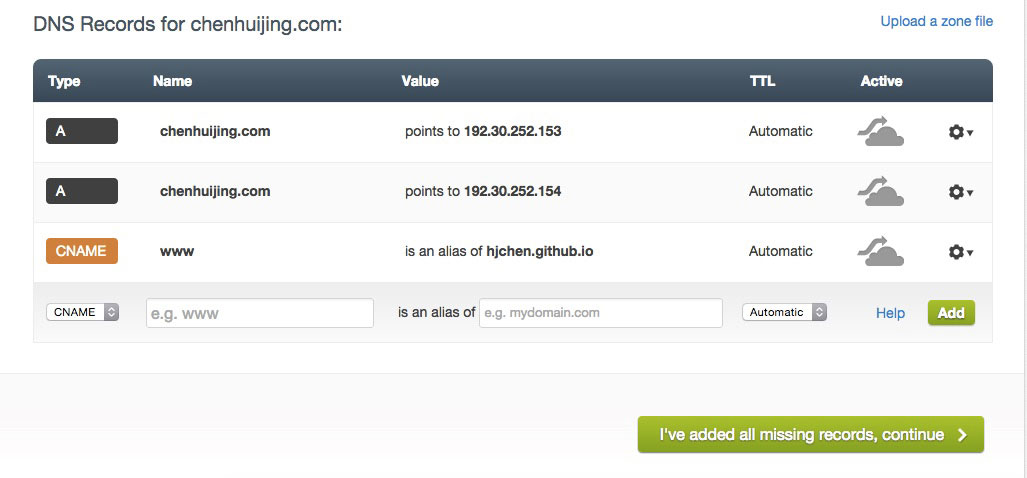
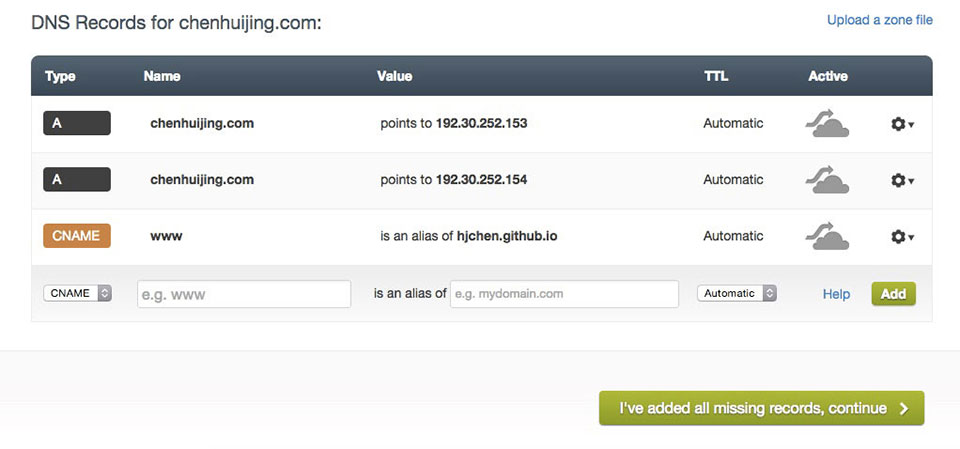
Re-optimise images; Add more styling

diff --git a/css/styles.css b/css/styles.css
@@ -1,1 +1,1 @@
-/*! normalize.css v3.0.2 | MIT License | git.io/normalize */html{font-family:sans-serif;-ms-text-size-adjust:100%;-webkit-text-size-adjust:100%}body{margin:0}article,aside,details,figcaption,figure,footer,header,hgroup,main,menu,nav,section,summary{display:block}audio,canvas,progress,video{display:inline-block;vertical-align:baseline}audio:not([controls]){display:none;height:0}[hidden],template{display:none}a{background-color:transparent}a:active,a:hover{outline:0}abbr[title]{border-bottom:1px dotted}b,strong{font-weight:bold}dfn{font-style:italic}h1{font-size:2em;margin:0.67em 0}mark{background:#ff0;color:#000}small{font-size:80%}sub,sup{font-size:75%;line-height:0;position:relative;vertical-align:baseline}sup{top:-0.5em}sub{bottom:-0.25em}img{border:0}svg:not(:root){overflow:hidden}figure{margin:1em 40px}hr{-moz-box-sizing:content-box;box-sizing:content-box;height:0}pre{overflow:auto}code,kbd,pre,samp{font-family:monospace, monospace;font-size:1em}button,input,optgroup,select,textarea{color:inherit;font:inherit;margin:0}button{overflow:visible}button,select{text-transform:none}button,html input[type="button"],input[type="reset"],input[type="submit"]{-webkit-appearance:button;cursor:pointer}button[disabled],html input[disabled]{cursor:default}button::-moz-focus-inner,input::-moz-focus-inner{border:0;padding:0}input{line-height:normal}input[type="checkbox"],input[type="radio"]{-moz-box-sizing:border-box;box-sizing:border-box;padding:0}input[type="number"]::-webkit-inner-spin-button,input[type="number"]::-webkit-outer-spin-button{height:auto}input[type="search"]{-webkit-appearance:textfield;-moz-box-sizing:content-box;box-sizing:content-box}input[type="search"]::-webkit-search-cancel-button,input[type="search"]::-webkit-search-decoration{-webkit-appearance:none}fieldset{border:1px solid #c0c0c0;margin:0 2px;padding:0.35em 0.625em 0.75em}legend{border:0;padding:0}textarea{overflow:auto}optgroup{font-weight:bold}table{border-collapse:collapse;border-spacing:0}td,th{padding:0}body{-webkit-backface-visibility:hidden}code[class*="language-"],pre[class*="language-"]{color:#f8f8f2;text-shadow:0 1px rgba(0,0,0,0.3);font-family:Consolas, Monaco, 'Andale Mono', monospace;direction:ltr;text-align:left;white-space:pre;word-spacing:normal;word-break:normal;line-height:1.5;-moz-tab-size:4;-o-tab-size:4;tab-size:4;-webkit-hyphens:none;-moz-hyphens:none;-ms-hyphens:none;hyphens:none}pre[class*="language-"]{padding:1em;margin:.5em 0;overflow:auto;border-radius:0.3em}:not(pre)>code[class*="language-"],pre[class*="language-"]{background:#272822}:not(pre)>code[class*="language-"]{padding:.1em;border-radius:.3em}.token.comment,.token.prolog,.token.doctype,.token.cdata{color:slategray}.token.punctuation{color:#f8f8f2}.namespace{opacity:.7}.token.property,.token.tag,.token.constant,.token.symbol,.token.deleted{color:#f92672}.token.boolean,.token.number{color:#ae81ff}.token.selector,.token.attr-name,.token.string,.token.char,.token.builtin,.token.inserted{color:#a6e22e}.token.operator,.token.entity,.token.url,.language-css .token.string,.style .token.string,.token.variable{color:#f8f8f2}.token.atrule,.token.attr-value{color:#e6db74}.token.keyword{color:#66d9ef}.token.regex,.token.important{color:#fd971f}.token.important,.token.bold{font-weight:bold}.token.italic{font-style:italic}.token.entity{cursor:help}.hide{display:none !important}embed,iframe,img,object,video{max-width:100%}img{height:auto;width:auto}@font-face{font-family:'Palo Alto';src:url("../fonts/palo-alto.eot");src:url("../fonts/palo-alto.eot?#iefix") format("embedded-opentype"),url("../fonts/palo-alto.woff2") format("woff2"),url("../fonts/palo-alto.woff") format("woff"),url("../fonts/palo-alto.ttf") format("truetype"),url("../fonts/palo-alto.svg#paloaltoheavy") format("svg");font-weight:normal;font-style:normal}@font-face{font-family:'Roboto Slab';src:url("../fonts/robotoslab-light.eot");src:url("../fonts/robotoslab-light.eot?#iefix") format("embedded-opentype"),url("../fonts/robotoslab-light.woff2") format("woff2"),url("../fonts/robotoslab-light.woff") format("woff"),url("../fonts/robotoslab-light.ttf") format("truetype"),url("../fonts/robotoslab-light.svg#roboto_slablight") format("svg");font-weight:normal;font-style:normal}@font-face{font-family:'Roboto Slab';src:url("../fonts/robotoslab-bold.eot");src:url("../fonts/robotoslab-bold.eot?#iefix") format("embedded-opentype"),url("../fonts/robotoslab-bold.woff2") format("woff2"),url("../fonts/robotoslab-bold.woff") format("woff"),url("../fonts/robotoslab-bold.ttf") format("truetype"),url("../fonts/robotoslab-bold.svg#roboto_slabbold") format("svg");font-weight:bold;font-style:normal}@font-face{font-family:'Droid Sans Mono';src:url("../fonts/droidsansmono.eot");src:url("../fonts/droidsansmono.eot?#iefix") format("embedded-opentype"),url("../fonts/droidsansmono.woff2") format("woff2"),url("../fonts/droidsansmono.woff") format("woff"),url("../fonts/droidsansmono.ttf") format("truetype"),url("../fonts/droidsansmono.svg#droid_sans_monoregular") format("svg");font-weight:normal;font-style:normal}@font-face{font-family:'8-bit Operator';src:url("../fonts/8bitoperatorplus8-bold-webfont.eot");src:url("../fonts/8bitoperatorplus8-bold-webfont.eot?#iefix") format("embedded-opentype"),url("../fonts/8bitoperatorplus8-bold-webfont.woff2") format("woff2"),url("../fonts/8bitoperatorplus8-bold-webfont.woff") format("woff"),url("../fonts/8bitoperatorplus8-bold-webfont.ttf") format("truetype");font-weight:bold;font-style:normal}@font-face{font-family:'8-bit Operator';src:url("../fonts/8bitoperatorplus-regular-webfont.eot");src:url("../fonts/8bitoperatorplus-regular-webfont.eot?#iefix") format("embedded-opentype"),url("../fonts/8bitoperatorplus-regular-webfont.woff2") format("woff2"),url("../fonts/8bitoperatorplus-regular-webfont.woff") format("woff"),url("../fonts/8bitoperatorplus-regular-webfont.ttf") format("truetype");font-weight:normal;font-style:normal}html{-moz-box-sizing:border-box;box-sizing:border-box}*,*:before,*:after{-moz-box-sizing:inherit;box-sizing:inherit}h1,h2,h3,h4,h5,h6,ul,ol,li,p,pre,code{margin:0;padding:0}hr{border:0;height:0;margin:0}ol,ul{list-style:none}input,textarea,button{-webkit-appearance:none;-moz-appearance:none;appearance:none;border-radius:0;outline:0;border:0}input:hover,input:active,input:focus,textarea:hover,textarea:active,textarea:focus,button:hover,button:active,button:focus{outline:0;border:0}embed,iframe,img,object,video{max-width:100%}img{height:auto;width:auto}html{font-size:125%;line-height:1.5em}body{font-family:"Roboto Slab",Rockwell,serif;font-size:16px;font-size:0.8rem;line-height:30px;line-height:1.5rem}@media screen and (min-width: 720px){body{font-size:20px;font-size:1rem;line-height:30px;line-height:1.5rem}}h1{font-family:"Palo Alto";font-size:42px;font-size:2.094rem;line-height:60px;line-height:3rem;margin:0 auto 1.5rem}@media screen and (min-width: 720px){h1{font-size:52px;font-size:2.618rem;line-height:60px;line-height:3rem}}h2{font-family:"Palo Alto";font-size:32px;font-size:1.618rem;line-height:45px;line-height:2.25rem;margin:0 auto 1.5rem}@media screen and (min-width: 720px){h2{font-size:42px;font-size:2.094rem;line-height:60px;line-height:3rem}}h3{font-family:"Palo Alto";font-size:26px;font-size:1.294rem;line-height:30px;line-height:1.5rem;margin:0 auto 0.75rem}@media screen and (min-width: 720px){h3{font-size:32px;font-size:1.618rem;line-height:45px;line-height:2.25rem}}h4{font-family:"Palo Alto";font-size:20px;font-size:1rem;line-height:30px;line-height:1.5rem;margin:0 auto 0.75rem}@media screen and (min-width: 720px){h4{font-size:26px;font-size:1.294rem;line-height:30px;line-height:1.5rem}}h5{font-family:"Palo Alto";font-size:16px;font-size:0.8rem;line-height:30px;line-height:1.5rem;margin:0 auto 0.75rem}@media screen and (min-width: 720px){h5{font-size:20px;font-size:1rem;line-height:30px;line-height:1.5rem}}h6{font-family:"Palo Alto";font-size:16px;font-size:0.8rem;line-height:30px;line-height:1.5rem;margin:0 auto 1.5rem}@media screen and (min-width: 720px){h6{font-size:20px;font-size:1rem;line-height:30px;line-height:1.5rem}}strong{font-weight:700}em{font-style:italic}pre,code{font-size:16px;font-size:0.8rem;line-height:30px;line-height:1.5rem;font-family:"Droid Sans Mono","Lucida Console",Monaco,"Courier New",Courier,monospace}pre{white-space:pre;border-radius:5px;margin-bottom:1.5rem;overflow-x:auto}p{margin-bottom:1.5rem}li p{margin-bottom:0}ol{list-style:decimal;margin-left:1.5rem}ol li{margin-bottom:1.5rem}ul{list-style:disc;margin-left:1.5rem}li:last-child{margin-bottom:1.5rem}a{text-decoration:none}.site-header__title{font-size:26px;font-size:1.294rem;line-height:30px;line-height:1.5rem;font-family:"8-bit Operator";font-weight:bold}@media screen and (min-width: 720px){.site-header__title{font-size:32px;font-size:1.618rem;line-height:45px;line-height:2.25rem}}.site-nav{font-family:"8-bit Operator"}.site-header__description{font-family:"8-bit Operator";font-size:16px;font-size:0.8rem;line-height:30px;line-height:1.5rem}.post-meta{font-size:16px;font-size:0.8rem;line-height:30px;line-height:1.5rem;color:#6b6b6b}.element-invisible{position:absolute;overflow:hidden;clip:rect(0 0 0 0);margin:-1px;padding:0;width:1px;height:1px;border:0}.element-visible{position:static;clip:auto;height:auto;width:auto;overflow:auto}.content{max-width:960px;max-width:48rem;margin-left:auto;margin-right:auto}.content:after{content:" ";display:block;clear:both}.icon>svg{display:inline-block;width:16px;height:16px;vertical-align:middle}.icon>svg path{fill:green}hr{border-bottom-width:1px;border-bottom-width:0.05rem;border-bottom-style:solid;padding-bottom:29px;padding-bottom:1.45rem}.site-header{display:-webkit-flex;display:-ms-flexbox;display:flex;-webkit-align-items:center;-ms-flex-align:center;align-items:center;padding:1.5rem}.site-header .first{-webkit-flex-grow:1;-ms-flex-positive:1;flex-grow:1}.site-header .last{-webkit-flex-grow:1;-ms-flex-positive:1;flex-grow:1}.sh-outer{display:-webkit-flex;display:-ms-flexbox;display:flex;-webkit-align-items:center;-ms-flex-align:center;align-items:center}.sh-inner{margin-left:1.5rem}.site-nav{display:-webkit-flex;display:-ms-flexbox;display:flex;list-style:none}.site-nav a{-webkit-flex-grow:1;-ms-flex-positive:1;flex-grow:1}
+/*! normalize.css v3.0.2 | MIT License | git.io/normalize */html{font-family:sans-serif;-ms-text-size-adjust:100%;-webkit-text-size-adjust:100%}body{margin:0}article,aside,details,figcaption,figure,footer,header,hgroup,main,menu,nav,section,summary{display:block}audio,canvas,progress,video{display:inline-block;vertical-align:baseline}audio:not([controls]){display:none;height:0}[hidden],template{display:none}a{background-color:transparent}a:active,a:hover{outline:0}abbr[title]{border-bottom:1px dotted}b,strong{font-weight:bold}dfn{font-style:italic}h1{font-size:2em;margin:0.67em 0}mark{background:#ff0;color:#000}small{font-size:80%}sub,sup{font-size:75%;line-height:0;position:relative;vertical-align:baseline}sup{top:-0.5em}sub{bottom:-0.25em}img{border:0}svg:not(:root){overflow:hidden}figure{margin:1em 40px}hr{-moz-box-sizing:content-box;box-sizing:content-box;height:0}pre{overflow:auto}code,kbd,pre,samp{font-family:monospace, monospace;font-size:1em}button,input,optgroup,select,textarea{color:inherit;font:inherit;margin:0}button{overflow:visible}button,select{text-transform:none}button,html input[type="button"],input[type="reset"],input[type="submit"]{-webkit-appearance:button;cursor:pointer}button[disabled],html input[disabled]{cursor:default}button::-moz-focus-inner,input::-moz-focus-inner{border:0;padding:0}input{line-height:normal}input[type="checkbox"],input[type="radio"]{-moz-box-sizing:border-box;box-sizing:border-box;padding:0}input[type="number"]::-webkit-inner-spin-button,input[type="number"]::-webkit-outer-spin-button{height:auto}input[type="search"]{-webkit-appearance:textfield;-moz-box-sizing:content-box;box-sizing:content-box}input[type="search"]::-webkit-search-cancel-button,input[type="search"]::-webkit-search-decoration{-webkit-appearance:none}fieldset{border:1px solid #c0c0c0;margin:0 2px;padding:0.35em 0.625em 0.75em}legend{border:0;padding:0}textarea{overflow:auto}optgroup{font-weight:bold}table{border-collapse:collapse;border-spacing:0}td,th{padding:0}body{-webkit-backface-visibility:hidden}code[class*="language-"],pre[class*="language-"]{color:#f8f8f2;text-shadow:0 1px rgba(0,0,0,0.3);font-family:Consolas, Monaco, 'Andale Mono', monospace;direction:ltr;text-align:left;white-space:pre;word-spacing:normal;word-break:normal;line-height:1.5;-moz-tab-size:4;-o-tab-size:4;tab-size:4;-webkit-hyphens:none;-moz-hyphens:none;-ms-hyphens:none;hyphens:none}pre[class*="language-"]{padding:1em;margin:.5em 0;overflow:auto;border-radius:0.3em}:not(pre)>code[class*="language-"],pre[class*="language-"]{background:#272822}:not(pre)>code[class*="language-"]{padding:.1em;border-radius:.3em}.token.comment,.token.prolog,.token.doctype,.token.cdata{color:slategray}.token.punctuation{color:#f8f8f2}.namespace{opacity:.7}.token.property,.token.tag,.token.constant,.token.symbol,.token.deleted{color:#f92672}.token.boolean,.token.number{color:#ae81ff}.token.selector,.token.attr-name,.token.string,.token.char,.token.builtin,.token.inserted{color:#a6e22e}.token.operator,.token.entity,.token.url,.language-css .token.string,.style .token.string,.token.variable{color:#f8f8f2}.token.atrule,.token.attr-value{color:#e6db74}.token.keyword{color:#66d9ef}.token.regex,.token.important{color:#fd971f}.token.important,.token.bold{font-weight:bold}.token.italic{font-style:italic}.token.entity{cursor:help}.hide{display:none !important}embed,iframe,img,object,video{max-width:100%}img{height:auto;width:auto}@font-face{font-family:'Palo Alto';src:url("../fonts/palo-alto.eot");src:url("../fonts/palo-alto.eot?#iefix") format("embedded-opentype"),url("../fonts/palo-alto.woff2") format("woff2"),url("../fonts/palo-alto.woff") format("woff"),url("../fonts/palo-alto.ttf") format("truetype"),url("../fonts/palo-alto.svg#paloaltoheavy") format("svg");font-weight:normal;font-style:normal}@font-face{font-family:'Roboto Slab';src:url("../fonts/robotoslab-light.eot");src:url("../fonts/robotoslab-light.eot?#iefix") format("embedded-opentype"),url("../fonts/robotoslab-light.woff2") format("woff2"),url("../fonts/robotoslab-light.woff") format("woff"),url("../fonts/robotoslab-light.ttf") format("truetype"),url("../fonts/robotoslab-light.svg#roboto_slablight") format("svg");font-weight:normal;font-style:normal}@font-face{font-family:'Roboto Slab';src:url("../fonts/robotoslab-bold.eot");src:url("../fonts/robotoslab-bold.eot?#iefix") format("embedded-opentype"),url("../fonts/robotoslab-bold.woff2") format("woff2"),url("../fonts/robotoslab-bold.woff") format("woff"),url("../fonts/robotoslab-bold.ttf") format("truetype"),url("../fonts/robotoslab-bold.svg#roboto_slabbold") format("svg");font-weight:bold;font-style:normal}@font-face{font-family:'Droid Sans Mono';src:url("../fonts/droidsansmono.eot");src:url("../fonts/droidsansmono.eot?#iefix") format("embedded-opentype"),url("../fonts/droidsansmono.woff2") format("woff2"),url("../fonts/droidsansmono.woff") format("woff"),url("../fonts/droidsansmono.ttf") format("truetype"),url("../fonts/droidsansmono.svg#droid_sans_monoregular") format("svg");font-weight:normal;font-style:normal}@font-face{font-family:'8-bit Operator';src:url("../fonts/8bitoperatorplus8-bold-webfont.eot");src:url("../fonts/8bitoperatorplus8-bold-webfont.eot?#iefix") format("embedded-opentype"),url("../fonts/8bitoperatorplus8-bold-webfont.woff2") format("woff2"),url("../fonts/8bitoperatorplus8-bold-webfont.woff") format("woff"),url("../fonts/8bitoperatorplus8-bold-webfont.ttf") format("truetype");font-weight:bold;font-style:normal}@font-face{font-family:'8-bit Operator';src:url("../fonts/8bitoperatorplus-regular-webfont.eot");src:url("../fonts/8bitoperatorplus-regular-webfont.eot?#iefix") format("embedded-opentype"),url("../fonts/8bitoperatorplus-regular-webfont.woff2") format("woff2"),url("../fonts/8bitoperatorplus-regular-webfont.woff") format("woff"),url("../fonts/8bitoperatorplus-regular-webfont.ttf") format("truetype");font-weight:normal;font-style:normal}html{-moz-box-sizing:border-box;box-sizing:border-box}*,*:before,*:after{-moz-box-sizing:inherit;box-sizing:inherit}h1,h2,h3,h4,h5,h6,ul,ol,li,p,pre,code{margin:0;padding:0}hr{border:0;height:0;margin:0}ol,ul{list-style:none}input,textarea,button{-webkit-appearance:none;-moz-appearance:none;appearance:none;border-radius:0;outline:0;border:0}input:hover,input:active,input:focus,textarea:hover,textarea:active,textarea:focus,button:hover,button:active,button:focus{outline:0;border:0}embed,iframe,img,object,video{max-width:100%}img{height:auto;width:auto}html{font-size:125%;line-height:1.5em}body{font-family:"Roboto Slab",Rockwell,serif;font-size:16px;font-size:0.8rem;line-height:30px;line-height:1.5rem}@media screen and (min-width: 720px){body{font-size:20px;font-size:1rem;line-height:30px;line-height:1.5rem}}h1{font-family:"Palo Alto";font-size:42px;font-size:2.094rem;line-height:60px;line-height:3rem;margin:0 auto 1.5rem}@media screen and (min-width: 720px){h1{font-size:52px;font-size:2.618rem;line-height:60px;line-height:3rem}}h2{font-family:"Palo Alto";font-size:32px;font-size:1.618rem;line-height:45px;line-height:2.25rem;margin:0 auto 1.5rem}@media screen and (min-width: 720px){h2{font-size:42px;font-size:2.094rem;line-height:60px;line-height:3rem}}h3{font-family:"Palo Alto";font-size:26px;font-size:1.294rem;line-height:30px;line-height:1.5rem;margin:0 auto 0.75rem}@media screen and (min-width: 720px){h3{font-size:32px;font-size:1.618rem;line-height:45px;line-height:2.25rem}}h4{font-family:"Palo Alto";font-size:20px;font-size:1rem;line-height:30px;line-height:1.5rem;margin:0 auto 0.75rem}@media screen and (min-width: 720px){h4{font-size:26px;font-size:1.294rem;line-height:30px;line-height:1.5rem}}h5{font-family:"Palo Alto";font-size:16px;font-size:0.8rem;line-height:30px;line-height:1.5rem;margin:0 auto 0.75rem}@media screen and (min-width: 720px){h5{font-size:20px;font-size:1rem;line-height:30px;line-height:1.5rem}}h6{font-family:"Palo Alto";font-size:16px;font-size:0.8rem;line-height:30px;line-height:1.5rem;margin:0 auto 1.5rem}@media screen and (min-width: 720px){h6{font-size:20px;font-size:1rem;line-height:30px;line-height:1.5rem}}strong{font-weight:700}em{font-style:italic}pre,code{font-size:16px;font-size:0.8rem;line-height:30px;line-height:1.5rem;font-family:"Droid Sans Mono","Lucida Console",Monaco,"Courier New",Courier,monospace}pre{white-space:pre;border-radius:5px;margin-bottom:1.5rem;overflow-x:auto}p{margin-bottom:1.5rem}li p{margin-bottom:0}ol{list-style:decimal;margin-left:1.5rem}ol li{margin-bottom:1.5rem}ul{list-style:disc;margin-left:1.5rem}li:last-child{margin-bottom:1.5rem}a{text-decoration:none;color:#4abc41;border-bottom:1px dashed #4abc41;-webkit-transition:all 0.15s linear;transition:all 0.15s linear}a:hover{color:#2c7027;border-bottom:1px solid #4abc41}h3 a{color:#372822;border:none}h3 a:hover{border:none}.site-header a{color:#372822;border:none}.site-header a:hover{border:none}.site-header__title{font-size:26px;font-size:1.294rem;line-height:30px;line-height:1.5rem;font-family:"8-bit Operator";font-weight:bold}@media screen and (min-width: 720px){.site-header__title{font-size:32px;font-size:1.618rem;line-height:45px;line-height:2.25rem}}.site-nav{font-family:"8-bit Operator"}.site-header__description{font-family:"8-bit Operator";font-size:12px;font-size:0.618rem;line-height:30px;line-height:1.5rem}@media screen and (min-width: 720px){.site-header__description{font-size:16px;font-size:0.8rem;line-height:30px;line-height:1.5rem}}.post-meta{font-size:16px;font-size:0.8rem;line-height:30px;line-height:1.5rem;color:#535759}.element-invisible{position:absolute;overflow:hidden;clip:rect(0 0 0 0);margin:-1px;padding:0;width:1px;height:1px;border:0}.element-visible{position:static;clip:auto;height:auto;width:auto;overflow:auto}.content{max-width:960px;max-width:48rem;margin-left:auto;margin-right:auto}.content:after{content:" ";display:block;clear:both}.icon>svg{display:inline-block;width:16px;height:16px;vertical-align:middle}.icon>svg path{fill:green}hr{border-bottom-width:1px;border-bottom-width:0.05rem;border-bottom-style:solid;padding-bottom:29px;padding-bottom:1.45rem}.site-header{display:-webkit-flex;display:-ms-flexbox;display:flex;-webkit-align-items:center;-ms-flex-align:center;align-items:center;padding:0.75rem;background:url("/images/bg-header.jpg");-webkit-flex-flow:row wrap;-ms-flex-flow:row wrap;flex-flow:row wrap}@media screen and (min-width: 960px){.site-header{-webkit-flex-flow:row nowrap;-ms-flex-flow:row nowrap;flex-flow:row nowrap}.site-header .first{-webkit-flex:3 0 0;-ms-flex:3 0 0;flex:3 0 0}.site-header .last{-webkit-flex:1 0 0;-ms-flex:1 0 0;flex:1 0 0}}.site-header__image{min-width:90px}.sh-outer{display:-webkit-flex;display:-ms-flexbox;display:flex;-webkit-align-items:center;-ms-flex-align:center;align-items:center}.sh-inner{margin-left:1.5rem}.site-nav{display:-webkit-flex;display:-ms-flexbox;display:flex;width:100%}.site-nav a{-webkit-flex-grow:1;-ms-flex-positive:1;flex-grow:1;text-align:center}@media screen and (min-width: 720px){.site-nav{margin-top:0.75rem}}@media screen and (min-width: 960px){.site-nav{margin-top:0}}body{background:url("/images/bg-body.jpg")}

diff --git a/_sass/base/_typography.scss b/_sass/base/_typography.scss
@@ -105,6 +105,27 @@ li {
 
 a {
   text-decoration: none;
+  color: color(apple);
+  border-bottom: 1px dashed color(apple);
+  transition: all 0.15s linear;
+  &:hover {
+    color: darken(color(apple), 20%);
+    border-bottom: 1px solid color(apple);
+  }
+  h3 & {
+    color: color(english-walnut);
+    border: none;
+    &:hover {
+      border: none;
+    }
+  }
+  .site-header & {
+    color: color(english-walnut);
+    border: none;
+    &:hover {
+      border: none;
+    }
+  }
 }
 
 .site-header__title {
@@ -119,10 +140,10 @@ a {
 
 .site-header__description {
   font-family: $display-font;
-  @include responsive-text-size(deci);
+  @include responsive-text-size(centi);
 }
 
 .post-meta {
   @include responsive-text-size(deci);
-  color: color(dove-gray);
+  color: color(abbey);
 }

diff --git a/_sass/modules/_header.scss b/_sass/modules/_header.scss
@@ -1,13 +1,22 @@
 .site-header {
   display: flex;
   align-items: center;
-  padding: rhythm(1);
-  .first {
-    flex-grow: 1;
+  padding: rhythm(0.5);
+  background: url('/images/bg-header.jpg');
+  flex-flow: row wrap;
+  @include respond-above(large) {
+    flex-flow: row nowrap;
+    .first {
+      flex: 3 0 0;
+    }
+    .last {
+      flex: 1 0 0;
+    }
   }
-  .last {
-    flex-grow: 1;
-  }
+}
+
+.site-header__image {
+  min-width: 90px;
 }
 
 .sh-outer {
@@ -21,8 +30,15 @@
 
 .site-nav {
   display: flex;
-  list-style: none;
+  width: 100%;
   a {
     flex-grow: 1;
+    text-align: center;
+  }
+  @include respond-above(medium) {
+    margin-top: rhythm(0.5);
+  }
+  @include respond-above(large) {
+    margin-top: 0;
   }
 }

diff --git a/_sass/base/_variables.scss b/_sass/base/_variables.scss
@@ -119,6 +119,14 @@ $rhythm-unit: "rem";
 
 // Set typography sizes
 $text-sizing: (
+  centi: (
+    small: (
+      font-size: 0.618rem
+    ),
+    medium: (
+      font-size: 0.8rem
+    )
+  ),
   deci: (
     small: (
       font-size: 0.8rem
@@ -180,7 +188,9 @@ $text-sizing: (
 
 $colors: (
   pampas: rgba(245, 242, 240, 1),
-  dove-gray: rgba(107, 107, 107, 1)
+  abbey: rgba(83, 87, 89, 1),
+  english-walnut: rgba(55, 40, 34, 1),
+  apple: rgba(74, 188, 65, 1)
 );
 
 // ==========

diff --git a/_includes/header.html b/_includes/header.html
@@ -1,6 +1,6 @@
 <header class="site-header">
   <div class="sh-outer item first">
-    <div class="site-header__image" href="{{ site.baseurl }}/"><img src="/images/retropc.png"></div>
+    <div class="site-header__image"><a href="{{ site.baseurl }}/"><img src="/images/retropc.png"></a></div>
     <div class="sh-inner">
       <a class="site-header__title" href="{{ site.baseurl }}/">{{ site.title }}</a>
       <p class="site-header__description">{{ site.description }}</p>

diff --git a/_sass/styles.scss b/_sass/styles.scss
@@ -37,6 +37,7 @@
 // MODULES - Module styles go here - Its your turn to shine here!
 // ==========
 @import "modules/header";
+@import "modules/body";
 
 // ==========
 // SHAME - For new style snippets that haven't been sorted and commented yet

diff --git a/_sass/modules/_body.scss b/_sass/modules/_body.scss
@@ -1,0 +1,3 @@
+body {
+  background: url('/images/bg-body.jpg');
+}
